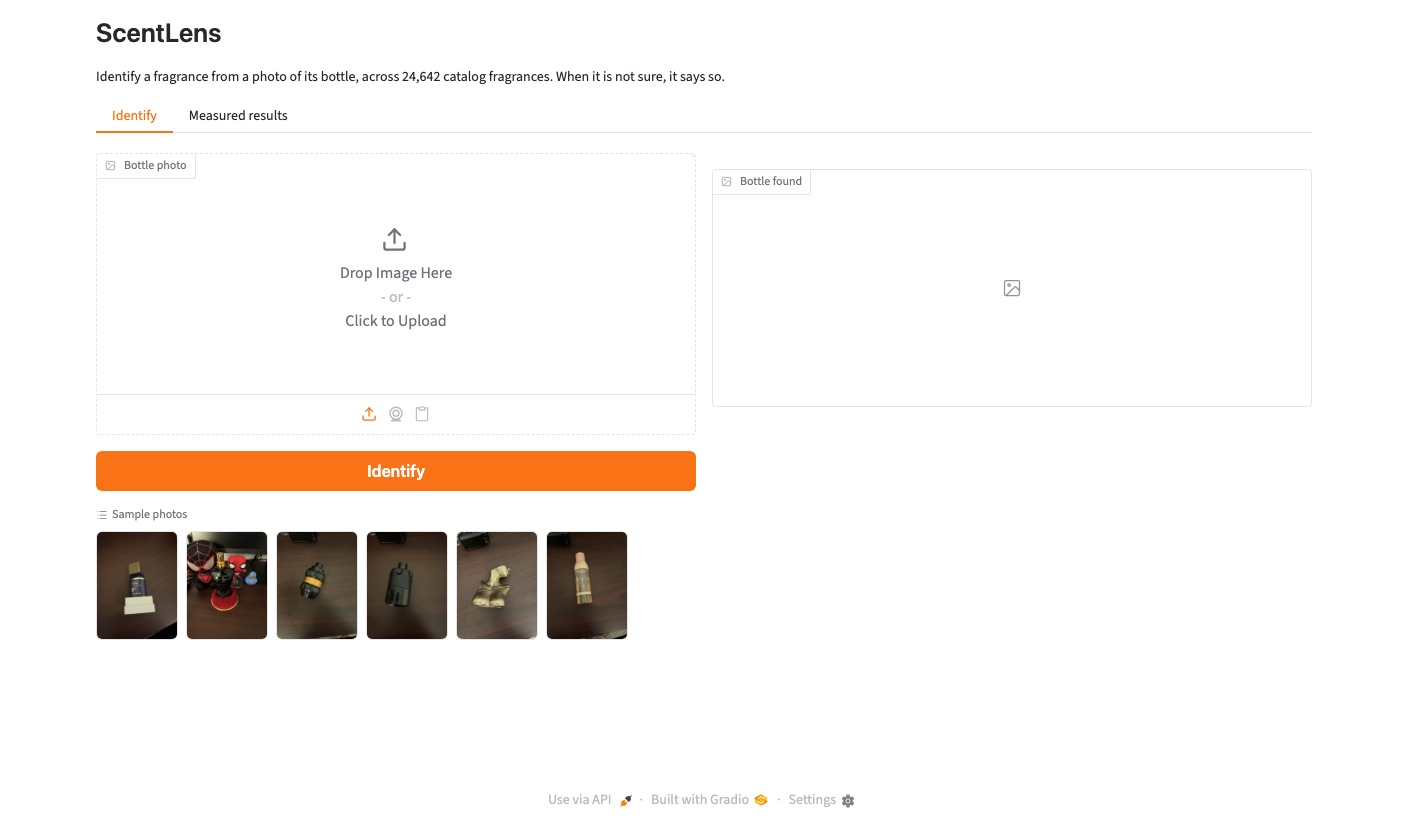
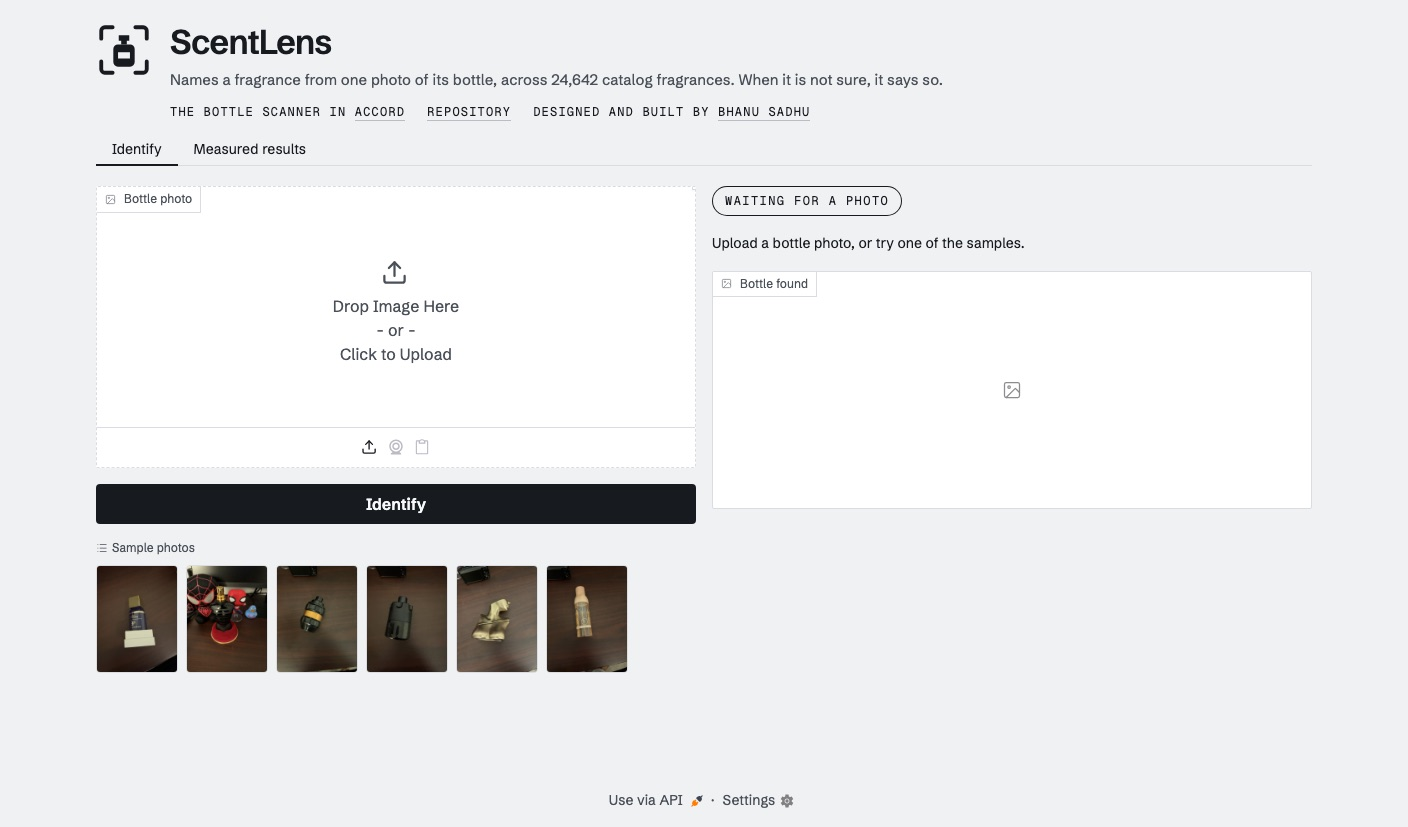
Fresh ScentLens, Accord and Replay screenshots from the live products

diff --git a/src/data/projects.ts b/src/data/projects.ts
@@ -240,12 +240,12 @@ export const projects: Project[] = [
     shots: [
       {
         src: '/scentlens/home.jpg',
-        alt: 'The ScentLens demo: a photo upload box, an Identify button, and six sample bottle photos.',
+        alt: 'The ScentLens demo on a silver bench: the viewfinder mark and title, a photo upload box, an ink Identify button, and six sample bottle photos.',
         caption: 'The demo',
       },
       {
         src: '/scentlens/result.jpg',
-        alt: 'A sample photo identified as Vanille Supermassive by Les Eaux Primordiales, with the bottle boxed and its confidence and notes beside it.',
+        alt: 'A sample photo identified as Vanille Supermassive by Les Eaux Primordiales: a Match · confidence 0.99 pill, the bottle boxed, and its notes beside it.',
         caption: 'An identified bottle',
       },
       {
